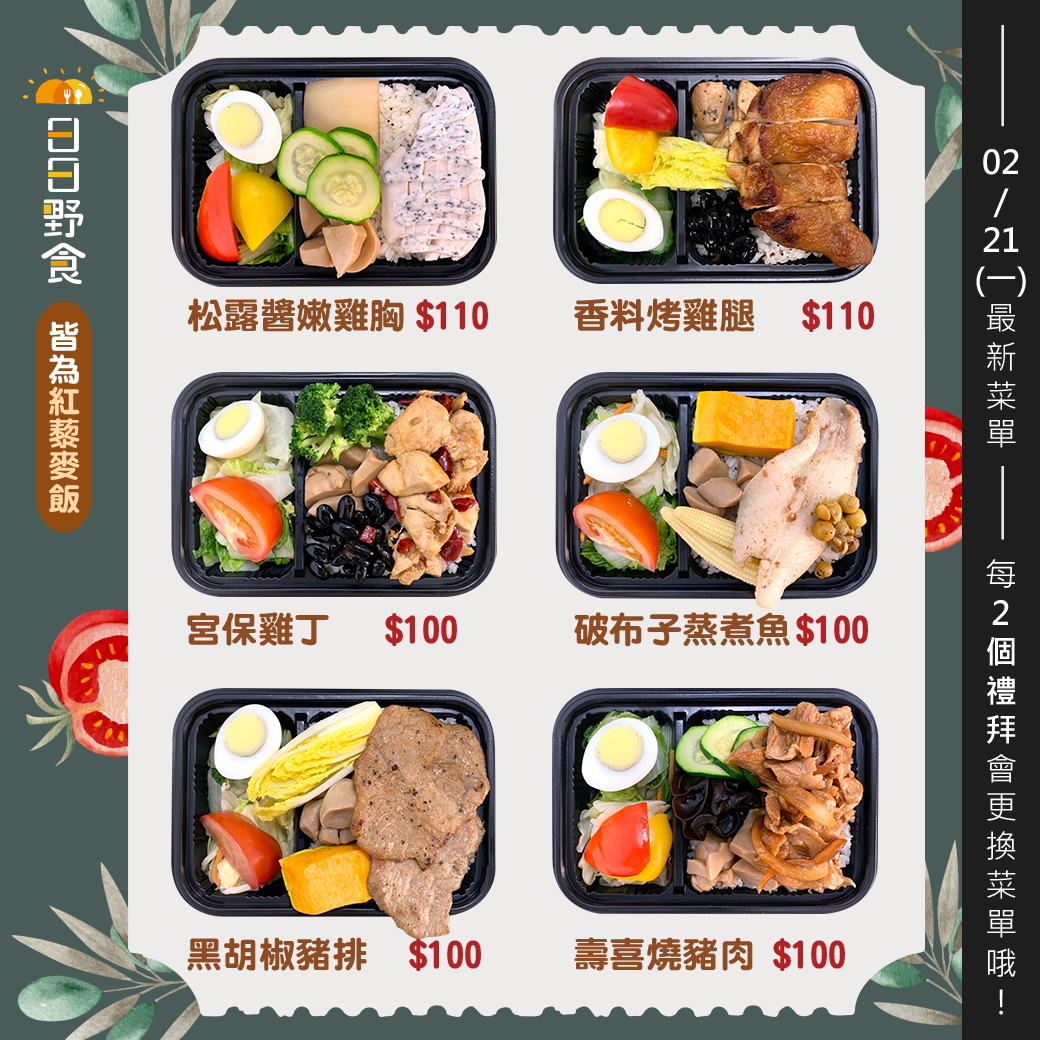
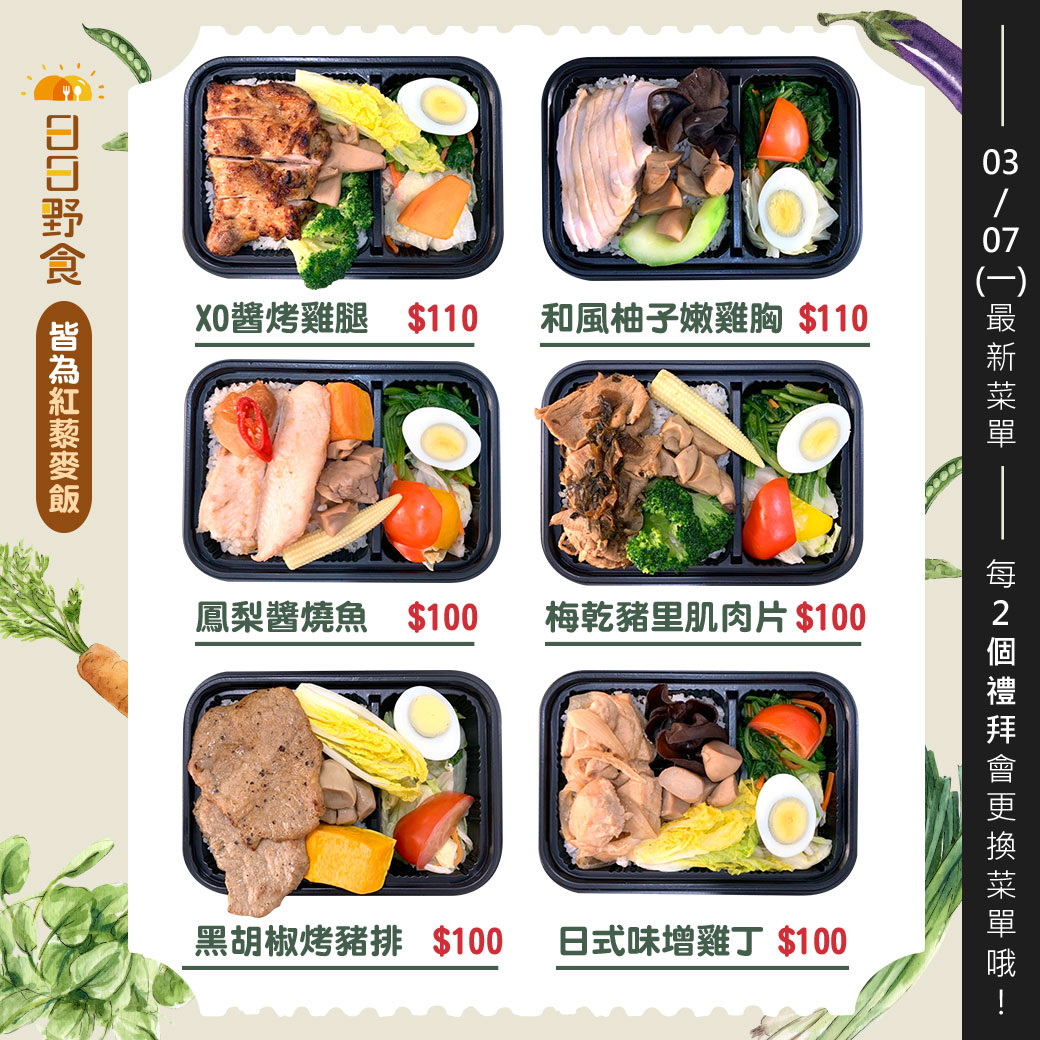
0307最新菜單

diff --git a/menu/index.html b/menu/index.html
@@ -102,7 +102,7 @@
 <section id="blog-full-width">
 	<div class="container">
     <div class="section-heading">
-			<h1 class="title wow fadeInDown" data-wow-delay=".3s">2/21(一)最新菜單</h1>
+			<h1 class="title wow fadeInDown" data-wow-delay=".3s">03/07(一)最新菜單</h1>
 			<p class="wow fadeInDown" data-wow-delay=".5s">每2週換一次菜單，怎麼吃都吃不膩❤</p>
 		</div>
     <div class="row">
@@ -117,21 +117,22 @@
 				<div class="fadeInRight" data-wow-delay=".3s" data-wow-duration="500ms">
 					<p class="menuText mt-4 mt-md-0">
 						健康餐盒(紅藜麥飯)<br/>
-						🔥松露醬嫩雞胸 $110<br/>
-						✨香料烤雞腿 $110<br/>
-						✨黑胡椒豬排 $100<br/>
-						🔥破布子蒸煮魚 $100<br/>
-						✨宮保雞丁 $100<br/>
-						✨壽喜燒豬肉 $100<br/>
+            ✨和風柚子嫩雞胸 $110<br/>
+            ✨XO醬烤雞腿 $110<br/>
+            ✨鳳梨醬燒魚 $100<br/>
+            ✨日式味增雞丁 $100<br/>
+            ✨梅乾豬里肌肉片 $100<br/>
+            ✨黑胡椒烤豬排 $100<br/>
 						-<br/>
 						隱藏版菜單<br/>
 						✨舒肥海鹽板腱牛排 $160<br/>
+            ✨蜜汁阿根廷大魷魚 $160<br/>
 						-<br/>
-						這次出現高級的松露醬！<br/>
-						想不到雞胸跟松露醬這麼配耶🥰<br/>
-						闆闆這次下重本了啦！<br/>
-						破布子蒸煮魚吃起來也超清爽～<br/>
-						真的太難抉擇啦～<br/>
+            上次賣超好的黑胡椒烤豬排這次也有哦🥰<br/>
+            還有超特別的鳳梨醬燒魚！<br/>
+            這道出奇的好吃耶！<br/>
+            闆闆太有創意啦~<br/>
+            想試新口味的話不要錯過囉😊<br/>
 						-<br/>
 						✅每日選用新鮮蔬菜<br/>
 						✅每兩週換一次菜單<br/>

diff --git a/index.html b/index.html
@@ -171,7 +171,7 @@
 <section id="works" class="works">
 	<div class="container">
 		<div class="section-heading">
-			<h1 class="title wow fadeInDown" data-wow-delay=".3s">2/21(一)最新菜單</h1>
+			<h1 class="title wow fadeInDown" data-wow-delay=".3s">03/07(一)最新菜單</h1>
 			<p class="wow fadeInDown" data-wow-delay=".5s">每2週換一次菜單，怎麼吃都吃不膩❤</p>
 		</div>
 		<div class="row">
@@ -185,22 +185,22 @@
 			<div class="col-sm-6">
 				<div class="fadeInRight" data-wow-delay=".3s" data-wow-duration="500ms">
 					<p class="menuText mt-4 mt-md-0">
-						健康餐盒(紅藜麥飯)<br/>
-						🔥松露醬嫩雞胸 $110<br/>
-						✨香料烤雞腿 $110<br/>
-						✨黑胡椒豬排 $100<br/>
-						🔥破布子蒸煮魚 $100<br/>
-						✨宮保雞丁 $100<br/>
-						✨壽喜燒豬肉 $100<br/>
+						✨和風柚子嫩雞胸 $110<br/>
+						✨XO醬烤雞腿 $110<br/>
+						✨鳳梨醬燒魚 $100<br/>
+						✨日式味增雞丁 $100<br/>
+						✨梅乾豬里肌肉片 $100<br/>
+						✨黑胡椒烤豬排 $100<br/>
 						-<br/>
 						隱藏版菜單<br/>
 						✨舒肥海鹽板腱牛排 $160<br/>
+						✨蜜汁阿根廷大魷魚 $160<br/>
 						-<br/>
-						這次出現高級的松露醬！<br/>
-						想不到雞胸跟松露醬這麼配耶🥰<br/>
-						闆闆這次下重本了啦！<br/>
-						破布子蒸煮魚吃起來也超清爽～<br/>
-						真的太難抉擇啦～<br/>
+						上次賣超好的黑胡椒烤豬排這次也有哦🥰<br/>
+						還有超特別的鳳梨醬燒魚！<br/>
+						這道出奇的好吃耶！<br/>
+						闆闆太有創意啦~<br/>
+						想試新口味的話不要錯過囉😊<br/>
 						-<br/>
 						✅每日選用新鮮蔬菜<br/>
 						✅每兩週換一次菜單<br/>
